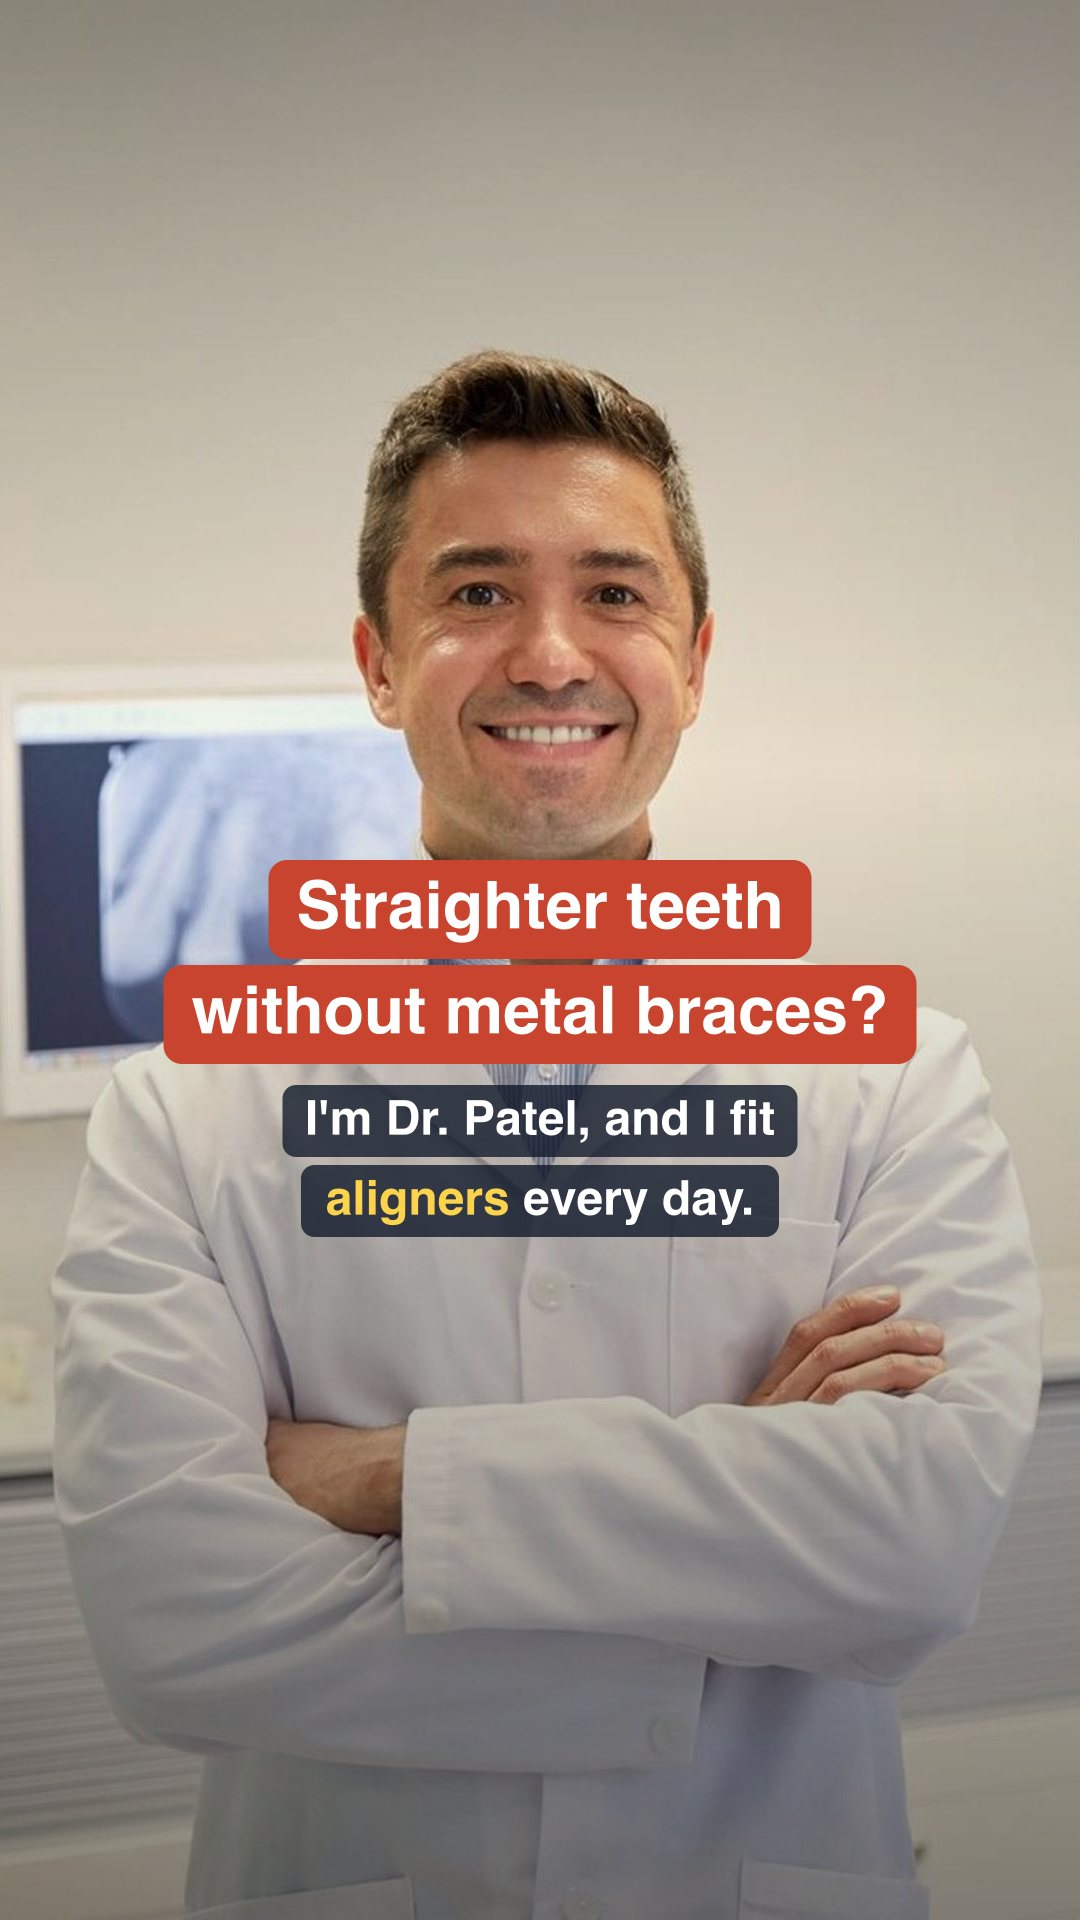
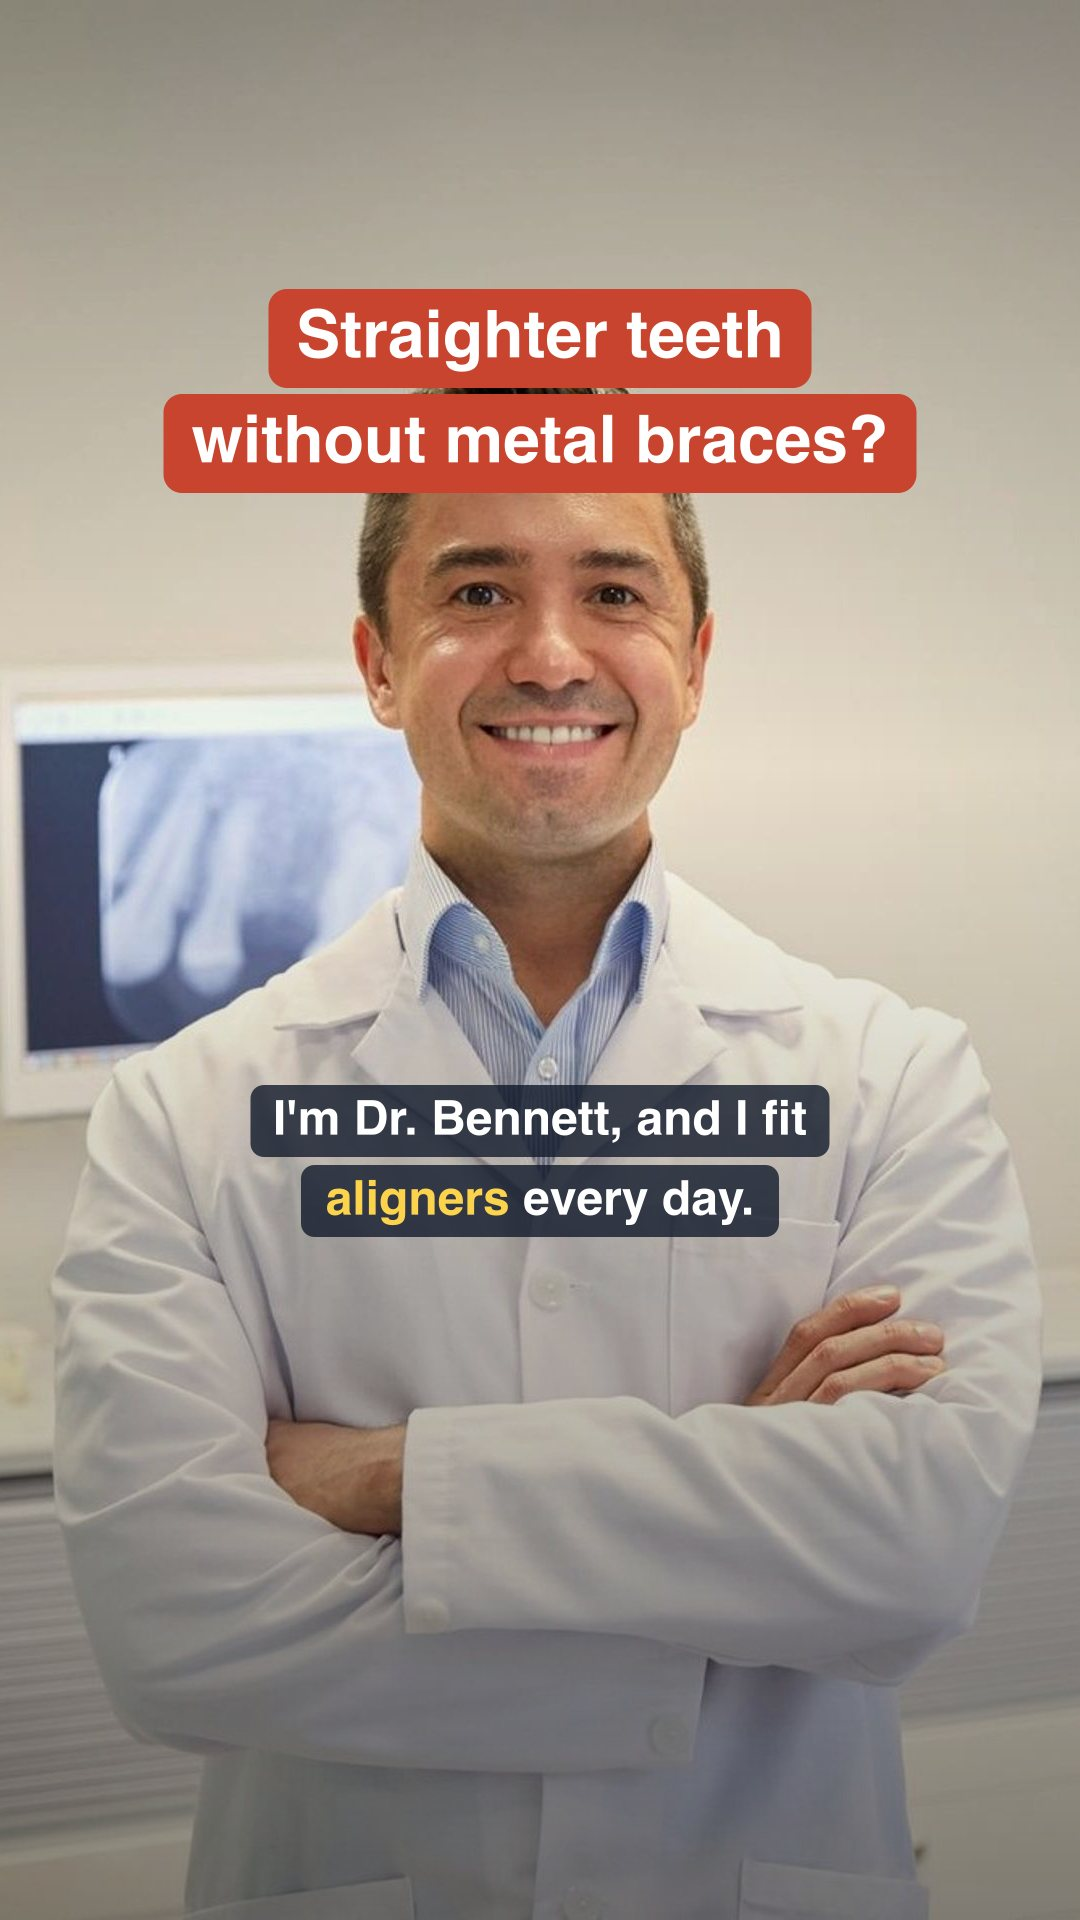
Ad hook titles at top, doctor renamed; double credits per dollar; alternate Services slide backgrounds

Changed region(s): [[0.1528, 0.4375, 0.8556, 0.625], [0.1528, 0.125, 0.8556, 0.2812]]

diff --git a/src/data/credits.ts b/src/data/credits.ts
@@ -2,21 +2,23 @@
 // costs a set number of credits; without a plan, credits cost PAYG_RATE each.
 // Plan cards, savings and price tables are worked out from these numbers.
 
-export const PAYG_RATE = 4;
+// Every cost is an even number, so a same-day rush (+50%) is always a whole
+// number of credits.
+export const PAYG_RATE = 2;
 
 export const cost = {
-  set: 3,
-  reel: 15,
-  transformation: 18,
-  testimonial: 45,
-  post: 5,
-  carousel: 10,
-  story: 5,
-  ad: 20,
-  googlePack: 15,
-  clinical: 1,
-  headshot: 3,
-  intro: 60,
+  set: 6,
+  reel: 30,
+  transformation: 36,
+  testimonial: 90,
+  post: 10,
+  carousel: 20,
+  story: 10,
+  ad: 40,
+  googlePack: 30,
+  clinical: 2,
+  headshot: 6,
+  intro: 120,
 };
 
 export type Service = keyof typeof cost;
@@ -25,12 +27,15 @@ export type Service = keyof typeof cost;
 export const creditsFor = (month: Array<[number, Service, ...unknown[]]>) =>
   month.reduce((sum, [n, service]) => sum + n * cost[service], 0);
 
+/** Credits for an item with a same-day rush (+50%). */
+export const rushCredits = (service: Service) => cost[service] * 1.5;
+
 /** Percentage saved against pay-as-you-go, rounded. */
 export const savingPercent = (price: number, credits: number) => Math.round((1 - price / (credits * PAYG_RATE)) * 100);
 
 /** Agency plan: credits per clinic, the base per-clinic price, and volume discounts. */
 export const agency = {
-  creditsPerClinic: 120,
+  creditsPerClinic: 240,
   pricePerClinic: 349,
   tiers: [
     { clinics: '1–4 clinics', discount: 0 },
